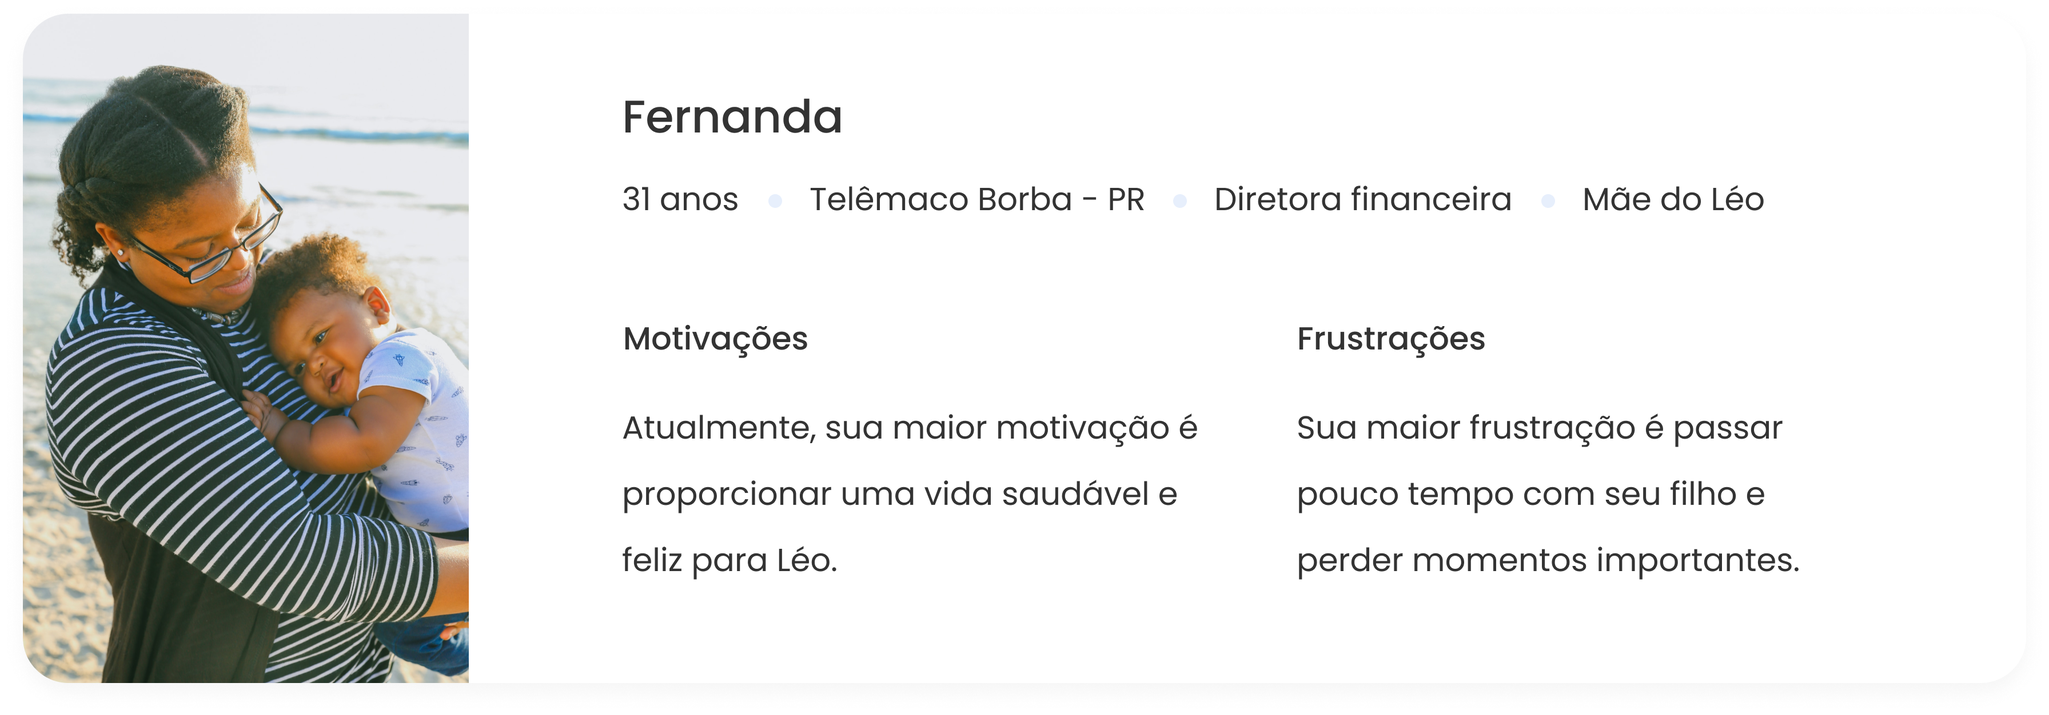
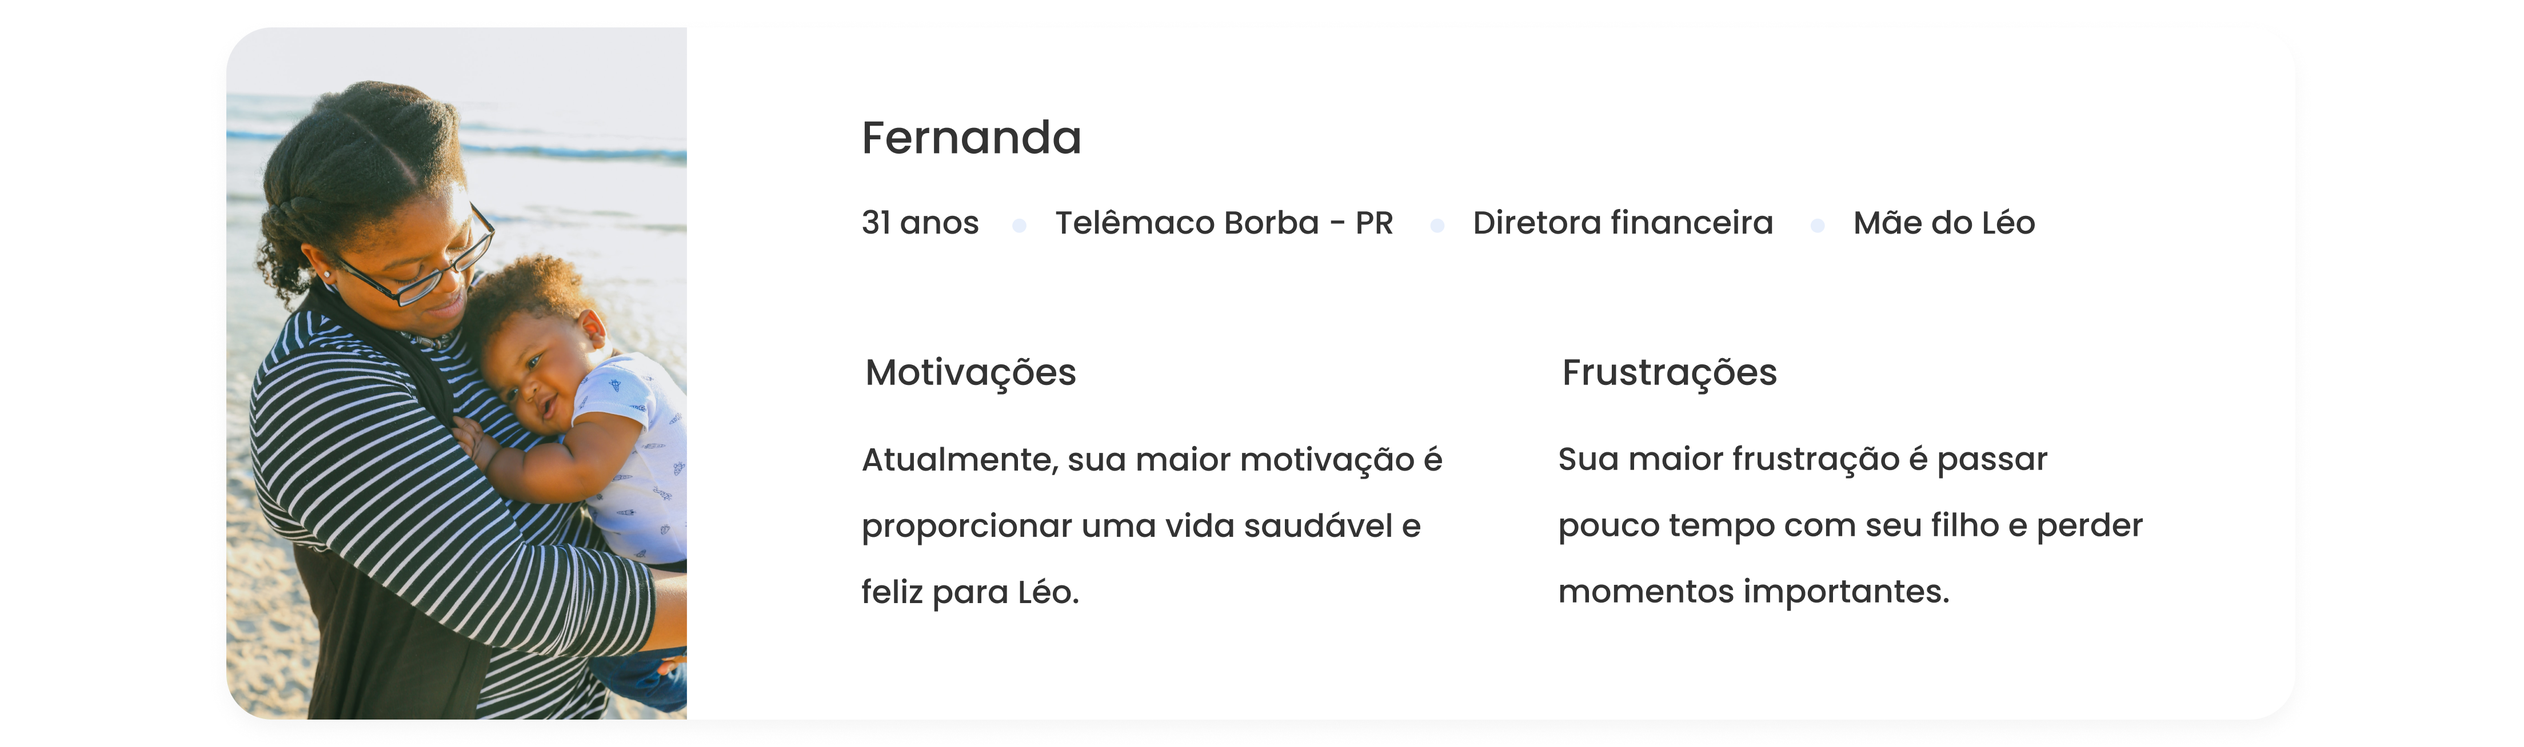
case implementation

diff --git a/pages/philips-support-page.js b/pages/philips-support-page.js
@@ -10,17 +10,20 @@ export default function Home() {
     return (
         <>
             <Fixed>
-                <div className="border-1 max-w-screen-md mx-auto py-14">
+                <div className="border-1 max-w-screen-md mx-auto pt-14 pb-10">
                     <div className="text-sm font-medium tracking-wide text-gray-800 text-center pb-4">ABRIL - MAIO 2022</div>
-                    <div className="text-3xl font-medium tracking-wider text-gray-800 text-center pb-8"> Suporte Philips Brasil</div>
+                    <div className="text-3xl font-medium tracking-wider text-gray-800 text-center pb-10"> Suporte Philips Brasil</div>
                     <div className="text-sm font-regular leading-loose text-justify text-gray-800">Criar uma página de suporte, de forma que o atendimento seja fácil e rápido para uma marca relevante no mercado foi o desafio dado pelo UX bootcamp da Aela School. De forma independente, atuei neste estudo de caso aplicando conceitos e processos de UX identificando conceitos iniciais, definindo hipóteses, ideando e desenvolvendo uma solução.</div>
                 </div>
 
+                <div className="bg-neutral-50 pt-20">
                 <div className="max-w-screen-lg mx-auto">
                     <div className="flex">
-                        <img src="/thumbnail.png" />
+                        <img src="/Support Page - Tópicos teste 1.png" />
                     </div>
                 </div>
+                </div>
+                
 
 
                 <div className="border-1 max-w-screen-md mx-auto py-14">
@@ -29,32 +32,53 @@ export default function Home() {
                     <div className="text-sm font-regular leading-loose text-justify text-gray-800 pb-4">No entando, através da pesquisa secundária, foi identicado pontos de melhoria na interface atual e novos recursos essenciais para entarem presentes em uma nova experiência.</div>
                     <div className="text-sm font-regular leading-loose text-justify text-gray-800">O redesenho do suporte serve para simplificar a jornada do cliente em busca do atendimento, reduzir o tempo de busca de informações, tornando a experiência mais intuitiva, amigável e ágil. </div>
                 </div>
+                <div className="border-1 max-w-screen-md mx-auto py-8">
+                    <div className="text-3xl font-medium tracking-wide text-gray-800 pt-6">Processo</div>
+                </div>
 
-                <hr className="solid max-w-screen-md mx-auto"></hr>
+                <div className="max-w-screen-sm mx-auto pb-24">
+                    <div className="flex">
+                        <img src="/Frame 45.png" />
+                    </div>
+                </div>
+
+                <hr className="solid max-w-screen-lg mx-auto"></hr>
 
                 <div className="border-1 max-w-screen-md mx-auto pt-14 pb-4">
                     <div className="text-3xl font-medium tracking-wide text-gray-800 pt-6 pb-10"> Conhecendo a marca</div>
                     <div className="text-sm font-regular leading-loose text-justify text-gray-800">
-                        A Philips se tornou conhecida no mundo todo através de seus diversos segmentos de produtos tecnológicos e inovadores. 
-                        Atualmente o foco estratégico está em criar soluções considerando toda a jornada de saúde das pessoas desde cuidados pessoais diários até tratamentos clínicos.
+                        A Philips se tornou conhecida no mundo todo através de seus diversos segmentos de produtos tecnológicos e inovadores.
+                        Atualmente o foco estratégico está em criar soluções considerando toda a jornada de saúde das pessoas desde cuidados pessoais diários até tratamentos clínicos. A empresa encontra valor em:
+                    </div>
+                </div>
+                <div className="max-w-screen-lg mx-auto py-5">
+                    <div className="flex">
+                        <img src="/conhecendo-a-marca (3).png" />
+                    </div>
+                </div>
+
+                <div className="border-1 max-w-screen-md mx-auto pt-14 pb-4">
+                    <div className="text-3xl font-medium tracking-wide text-gray-800 pt-6 pb-10">Como secom a experiencia atual?</div>
+                    <div className="text-sm font-regular leading-loose text-justify text-gray-800">
+                        Para entender melhor os problemas que usuários como a Fernanda encontram na experiencia atual, utilizei de três jornadas do usuário. Elas compartilham o mesmo cenário e expectativa, porém com diferentes tomada de decisões.
                     </div>
                 </div>
                 <div className="max-w-screen-md mx-auto">
                     <div className="flex">
-                        <img src="/Undestanding The Brand.png" />
+                        <img src="/atendimento.png" />
                     </div>
                 </div>
 
                 <div className="border-1 max-w-screen-md mx-auto pt-14 pb-4">
                     <div className="text-3xl font-medium tracking-wide text-gray-800 pt-6 pb-10"> Análise de competidores</div>
                     <div className="text-sm font-regular leading-loose text-justify text-gray-800">
-                    Para entender de que forma prática como esses pontos podem ser aplicados, escolhi duas empresas conhecidas 
-                    no mercado para analisar quais aspectos podem contribuir para percepção de um bom atendimento.
+                        Para entender de que forma prática como esses pontos podem ser aplicados, escolhi duas empresas conhecidas
+                        no mercado para analisar quais aspectos podem contribuir para percepção de um bom atendimento.
                     </div>
                 </div>
-                <div className="max-w-screen-md mx-auto">
+                <div className="max-w-screen-lg mx-auto">
                     <div className="flex">
-                        <img src="/Análise de competidores - image.png" />
+                        <img src="/analise-de-competidores (1).png" />
                     </div>
                 </div>
 
@@ -63,9 +87,9 @@ export default function Home() {
                     <div className="text-sm font-regular leading-loose text-justify text-gray-800 pb-4">Analisei a experiência que alguns clientes tiveram com o atendimento Philips através de seus próprios relatos na plataforma de solução de conflito entre consumidores e empresas, ReclameAQUI.  </div>
                     <div className="text-sm font-regular leading-loose text-justify text-gray-800">Com descrições reais, é possível identificar as decisões que os usuários tomam ao buscar atendimento dentro do site e as dificuldades que eles encontram ao tentar alcançar seu objetivo. Pontos que me chamaram a atenção nas experiências: </div>
                 </div>
-                <div className="max-w-screen-md mx-auto">
+                <div className="max-w-screen-lg mx-auto">
                     <div className="flex">
-                        <img src="/Reclame Aqui.png" />
+                        <img src="/reclame-aqui (1).png" />
                     </div>
                 </div>
 
@@ -77,122 +101,123 @@ export default function Home() {
                     <div className="text-sm font-regular leading-loose text-justify text-gray-800 pb-4"> Reuni as principais características identificadas na Pesquisa Secundária e criei em uma proto-persona com os pontos que auxiliam no desenvolvimento de uma solução efetiva e também, que podem ser relevantes para usuários de outros segmentos da marca.</div>
 
                 </div>
-                <div className="max-w-screen-md mx-auto">
+                <div className="max-w-screen-lg mx-auto">
                     <div className="flex">
-                        <img src="/Persona.png" />
+                        <img src="/teste-persona (1).png" />
                     </div>
                 </div>
 
                 <div className="border-1 max-w-screen-md mx-auto pt-14 pb-4">
                     <div className="text-2xl font-medium tracking-wide text-gray-800 pt-6 pb-10">Como seria resolver um problema com a experiencia atual?</div>
                     <div className="text-sm font-regular leading-loose text-justify text-gray-800">
-                    Para entender melhor os problemas que usuários como a Fernanda encontram na experiencia atual, utilizei de três jornadas do usuário. Elas compartilham o mesmo cenário e expectativa, porém com diferentes tomada de decisões.
+                        Para entender melhor os problemas que usuários como a Fernanda encontram na experiencia atual, utilizei de três jornadas do usuário. Elas compartilham o mesmo cenário e expectativa, porém com diferentes tomada de decisões.
                     </div>
                 </div>
-                <div className="max-w-screen-md mx-auto">
+                <div className="max-w-screen-lg mx-auto">
                     <div className="flex">
-                        <img src="/Jornada.png" />
+                        <img src="/jornada-test (5).png" />
                     </div>
                 </div>
                 <div className="border-1 max-w-screen-lg mx-auto pt-14 pb-4">
                     <div className="text-3xl font-medium tracking-wide text-gray-800 pt-6 pb-10 text-center">Princípios de Design</div>
                     <div className="text-sm font-regular leading-loose text-justify text-gray-800 pb-8">
-                    Depois de entender o que os consumidores esperam de um bom atendimento e quais efeitos isso pode ter em um negócio, conhecer dificuldades que os clientes encontram ao buscar o suporte Philips e identificar pontos de fricção na jornada que o usuário realiza procurando atendimento através da experiência atual, condensei os aprendizados e assim, determinei o que a nova experiência deve possuir para ser efetiva.
+                        Depois de entender o que os consumidores esperam de um bom atendimento e os efeitos isso pode ter em um negócio, conhecer dificuldades que os clientes encontram ao buscar o suporte Philips e identificar pontos de fricção na jornada que o usuário realiza procurando atendimento através da experiência atual, condensei os aprendizados e assim, determinei o que a nova experiência deve possuir para ser efetiva.
                     </div>
                 </div>
                 <div className="bg-neutral-100 py-60"></div>
                 <div className="border-1 max-w-screen-lg mx-auto pt-14 pb-4">
                     <div className="text-3xl font-medium tracking-wide text-gray-800 pt-6 pb-10 text-center">Desenhando hipóteses</div>
                     <div className="text-sm font-regular leading-loose text-justify text-gray-800 pb-8">
-                    Para atingir seus objetivos dentro da interface, o usuário necessita de funcionalidades que o auxilie nisso. Antes de outras decisões, após alguns esboços, determinei as funções que atendiam aos requisitos essenciais elencados através da pesquisa.
+                        Para atingir seus objetivos dentro da interface, o usuário necessita de funcionalidades que o auxilie nisso. Antes de outras decisões, após alguns esboços, determinei as funções que atendiam aos requisitos essenciais elencados através da pesquisa.
                     </div>
                 </div>
                 <div className="max-w-screen-lg mx-auto">
                     <div className="flex">
-                        <img src="/wireframe.png" />
+                        <img src="/wireframe (1).png" />
                     </div>
                 </div>
 
-                <div className="border-1 max-w-screen-lg mx-auto pt-14 pb-4">
+                <div className="border-1 max-w-screen-lg mx-auto pt-14 pb-8">
                     <div className="text-sm font-regular leading-loose text-justify text-gray-800 pb-4">
-                    Funções definidas, defini a estrutura da página contendo três sessões principais. A sequência direciona intuitivamente o usuário criando a sensação de passo-a-passo; caso não encontre a resposta em uma área ele poderá utilizar a próxima sessão.                    </div>
+                        Funções definidas, defini a estrutura da página contendo três sessões principais. A sequência direciona intuitivamente o usuário criando a sensação de passo-a-passo; caso não encontre a resposta em uma área ele poderá utilizar a próxima sessão.                    </div>
                 </div>
                 <div className="max-w-screen-sm mx-auto">
                     <div className="flex">
-                        <img src="/wireframe-sessoes.png" />
+                        <img src="/wireframe-sessoes (3).png" />
                     </div>
                 </div>
-                <div className="border-1 max-w-screen-lg mx-auto pt-14 pb-4">
+                <div className="border-1 max-w-screen-lg mx-auto pt-28 pb-4">
                     <div className="text-3xl font-medium tracking-wide text-gray-800 pt-6 pb-10 text-center">Inspirações</div>
                     <div className="text-sm font-regular leading-loose text-justify text-gray-800">
-                    Como a página de suporte já faz parte de todo o contexto apresentado pela Philips, para construir o design, busquei inspiração em como a própria empresa comunica seus valores através de sua comunicação visual.
+                        Como a página de suporte já faz parte de todo o contexto apresentado pela Philips, para construir o design, busquei inspiração em como a própria empresa comunica seus valores através de sua comunicação visual.
                     </div>
                 </div>
-                <div className="max-w-screen-md mx-auto">
+                <div className="max-w-screen-lg mx-auto py-4">
                     <div className="flex">
-                        <img src="/as-luzes.png" />
-                    </div>
-                </div>
-                <div className="max-w-screen-md mx-auto">
-                    <div className="flex">
-                        <img src="/o-branco.png" />
+                        <img src="/inspiracao (2).png" />
                     </div>
                 </div>
 
                 <div className="border-1 max-w-screen-lg mx-auto pt-14 pb-4">
                     <div className="text-3xl font-medium tracking-wide text-gray-800 pt-6 pb-10 text-center">Style Guide</div>
                     <div className="text-sm font-regular leading-loose text-justify text-gray-800 pb-8">
-                    Traduzindo as inspirações para o design da interface, utilizei cores neutras e sólidas como base do design e o conceito de luzes através de gradientes empregados em partes de destaque na página. Para a tipografia, escolhi a fonte presente em todo a Loja Virtual Philips com o intuito de evitar o estranhamento do usuário ao navegar pelo site.
+                        Traduzindo as inspirações para o design da interface, utilizei cores neutras e sólidas como base do design e o conceito de luzes através de gradientes empregados em partes de destaque na página. Para a tipografia, escolhi a fonte presente em todo a Loja Virtual Philips com o intuito de evitar o estranhamento do usuário ao navegar pelo site.
                     </div>
                 </div>
-                <div className="max-w-screen-lg mx-auto">
+                <div className="max-w-screen-lg mx-auto pb-24">
                     <div className="flex">
                         <img src="/style-guide.png" />
                     </div>
                 </div>
 
-                <div className="border-1 max-w-screen-lg mx-auto pt-14 pb-4">
-                    <div className="text-3xl font-medium tracking-wide text-gray-800 pt-6 pb-10 text-center">Inspirações</div>
-                </div>
-                <div className="max-w-screen-lg mx-auto">
-                    <div className="flex">
-                        <img src="/funcionalidades-1.png" />
+                <div className=" bg-neutral-50 pt-24 pb-32">
+                    <div className="text-3xl font-medium tracking-wide text-gray-800 pb-14 text-center">A nova experiência</div>
+                    <img src="/Frame 42 (5).png" />
+                    <div className="border-1 max-w-screen-lg mx-auto pt-14 pb-4">
+                        <div className="text-3xl font-medium tracking-wide text-gray-800 pt-12 pb-16 text-center">Detalhamento dos elementos da interface e funcionalidades </div>
                     </div>
-                </div>
-                <div className="max-w-screen-lg mx-auto">
-                    <div className="flex">
-                        <img src="/funcionalidades-2.png" />
+                    <div className="max-w-screen-lg mx-auto pb-4">
+                        <div className="flex">
+                            <img src="/funcionalidades-1.png" />
+                        </div>
                     </div>
-                </div>
-                <div className="max-w-screen-lg mx-auto">
-                    <div className="flex">
-                        <img src="/funcionalidades-3.png" />
+                    <div className="max-w-screen-lg mx-auto pb-4">
+                        <div className="flex">
+                            <img src="/funcionalidades-2.png" />
+                        </div>
                     </div>
-                </div>
+                    <div className="max-w-screen-lg mx-auto">
+                        <div className="flex">
+                            <img src="/funcionalidades-3.png" />
+                        </div>
+                    </div>
 
-                <div className="border-1 max-w-screen-lg mx-auto pt-14 pb-4">
-                    <div className="text-3xl font-medium tracking-wide text-gray-800 pt-6 pb-10 text-center">O chat</div>
-                    <div className="text-sm font-regular leading-loose text-justify text-gray-800 pb-8">
-                    Ao longo da pesquisa, a importancia do chat evidente no ciclo de atendimento Philips. Sendo assim, o novo fluxo foi pensado priorizando a comunicação clara e amigável e reaproveitamento de dados de cadastro.                     </div>
-                </div>
-                <div className="max-w-screen-lg mx-auto">
-                    <div className="flex">
-                        <img src="/chat.png" />
+                    <div className="border-1 max-w-screen-lg mx-auto pt-14 pb-4">
+                        <div className="text-3xl font-medium tracking-wide text-gray-800 pt-6 pb-10 text-center">O chat</div>
+                        <div className="text-sm font-regular leading-loose text-justify text-gray-800 pb-8">
+                            Ao longo da pesquisa, a importancia do chat evidente no ciclo de atendimento Philips. Sendo assim, o novo fluxo foi pensado priorizando a comunicação clara e amigável e reaproveitamento de dados de cadastro.                     </div>
+                    </div>
+                    <div className="max-w-screen-lg mx-auto">
+                        <div className="flex">
+                            <img src="/chat.png" />
+                        </div>
                     </div>
                 </div>
-
-                <div className="border-1 max-w-screen-md mx-auto pt-14 pb-4">
-                    <div className="text-3xl font-medium tracking-wide text-gray-800 pt-6 pb-10">Qual seria o próximo passo deste projeto</div>
+                <div className="border-1 max-w-screen-md mx-auto pt-24">
+                    <div className="text-3xl font-medium tracking-wide text-gray-800 pt-6 pb-10">Aprendizados</div>
+                </div>
+                <div className="border-1 max-w-screen-md mx-auto pb-4">
+                    <div className="text-2xl font-medium tracking-wide text-gray-800 pt-6 pb-10">Qual seria o próximo passo deste projeto</div>
                     <div className="text-sm font-regular leading-loose text-justify text-gray-800 pb-4">Gostaria de realizar testes de interface e funcionalidades com usuários reais da marca e  realizar as melhorias identificadas.</div>
                     <div className="text-sm font-regular leading-loose text-justify text-gray-800">Com descrições reais, é possível identificar as decisões que os usuários tomam ao buscar atendimento dentro do site e as dificuldades que eles encontram ao tentar alcançar seu objetivo. Pontos que me chamaram a atenção nas experiências: </div>
                 </div>
                 <div className="border-1 max-w-screen-md mx-auto pt-14 pb-4">
-                    <div className="text-3xl font-medium tracking-wide text-gray-800 pt-6 pb-10">Opiniões sobre o atendimento Philips</div>
+                    <div className="text-2xl font-medium tracking-wide text-gray-800 pt-6 pb-10">Do que me orgulho</div>
                     <div className="text-sm font-regular leading-loose text-justify text-gray-800 pb-4">Analisei a experiência que alguns clientes tiveram com o atendimento Philips através de seus próprios relatos na plataforma de solução de conflito entre consumidores e empresas, ReclameAQUI.  </div>
                     <div className="text-sm font-regular leading-loose text-justify text-gray-800">Com descrições reais, é possível identificar as decisões que os usuários tomam ao buscar atendimento dentro do site e as dificuldades que eles encontram ao tentar alcançar seu objetivo. Pontos que me chamaram a atenção nas experiências: </div>
                 </div>
                 <div className="border-1 max-w-screen-md mx-auto pt-14 pb-4">
-                    <div className="text-3xl font-medium tracking-wide text-gray-800 pt-6 pb-10">Opiniões sobre o atendimento Philips</div>
+                    <div className="text-2xl font-medium tracking-wide text-gray-800 pt-6 pb-10">O que eu melhoraria</div>
                     <div className="text-sm font-regular leading-loose text-justify text-gray-800 pb-4">Analisei a experiência que alguns clientes tiveram com o atendimento Philips através de seus próprios relatos na plataforma de solução de conflito entre consumidores e empresas, ReclameAQUI.  </div>
                     <div className="text-sm font-regular leading-loose text-justify text-gray-800">Com descrições reais, é possível identificar as decisões que os usuários tomam ao buscar atendimento dentro do site e as dificuldades que eles encontram ao tentar alcançar seu objetivo. Pontos que me chamaram a atenção nas experiências: </div>
                 </div>

diff --git a/components/Fixed.js b/components/Fixed.js
@@ -10,7 +10,7 @@ export default function Fixed(props) {
           <Link href="/sobre-mim" passHref><a className="text-sm font-medium tracking-wide hover:text-orange-300 active:text-orange-300">Sobre mim</a></Link>
         </div>
         {props.children}
-        <div className="max-w-screen-xl mx-auto pt-52 pb-10">
+        <footer className="max-w-screen-xl mx-auto pt-52 pb-10">
           <div className="flex justify-center gap-2 py-6">
             <Link href="https://www.linkedin.com/in/mariaritabenate/" passHref>
               <a target="_blank"><Icon icon="mdi:linkedin" className="text-lg hover:text-orange-300" /></a>
@@ -22,7 +22,7 @@ export default function Fixed(props) {
           <div className="text-sm text-neutral-300 flex justify-center">
             <a>Desenvolvido por Maria Rita Benate.</a>
           </div>
-        </div>
+        </footer>
       </>
     )
   }
